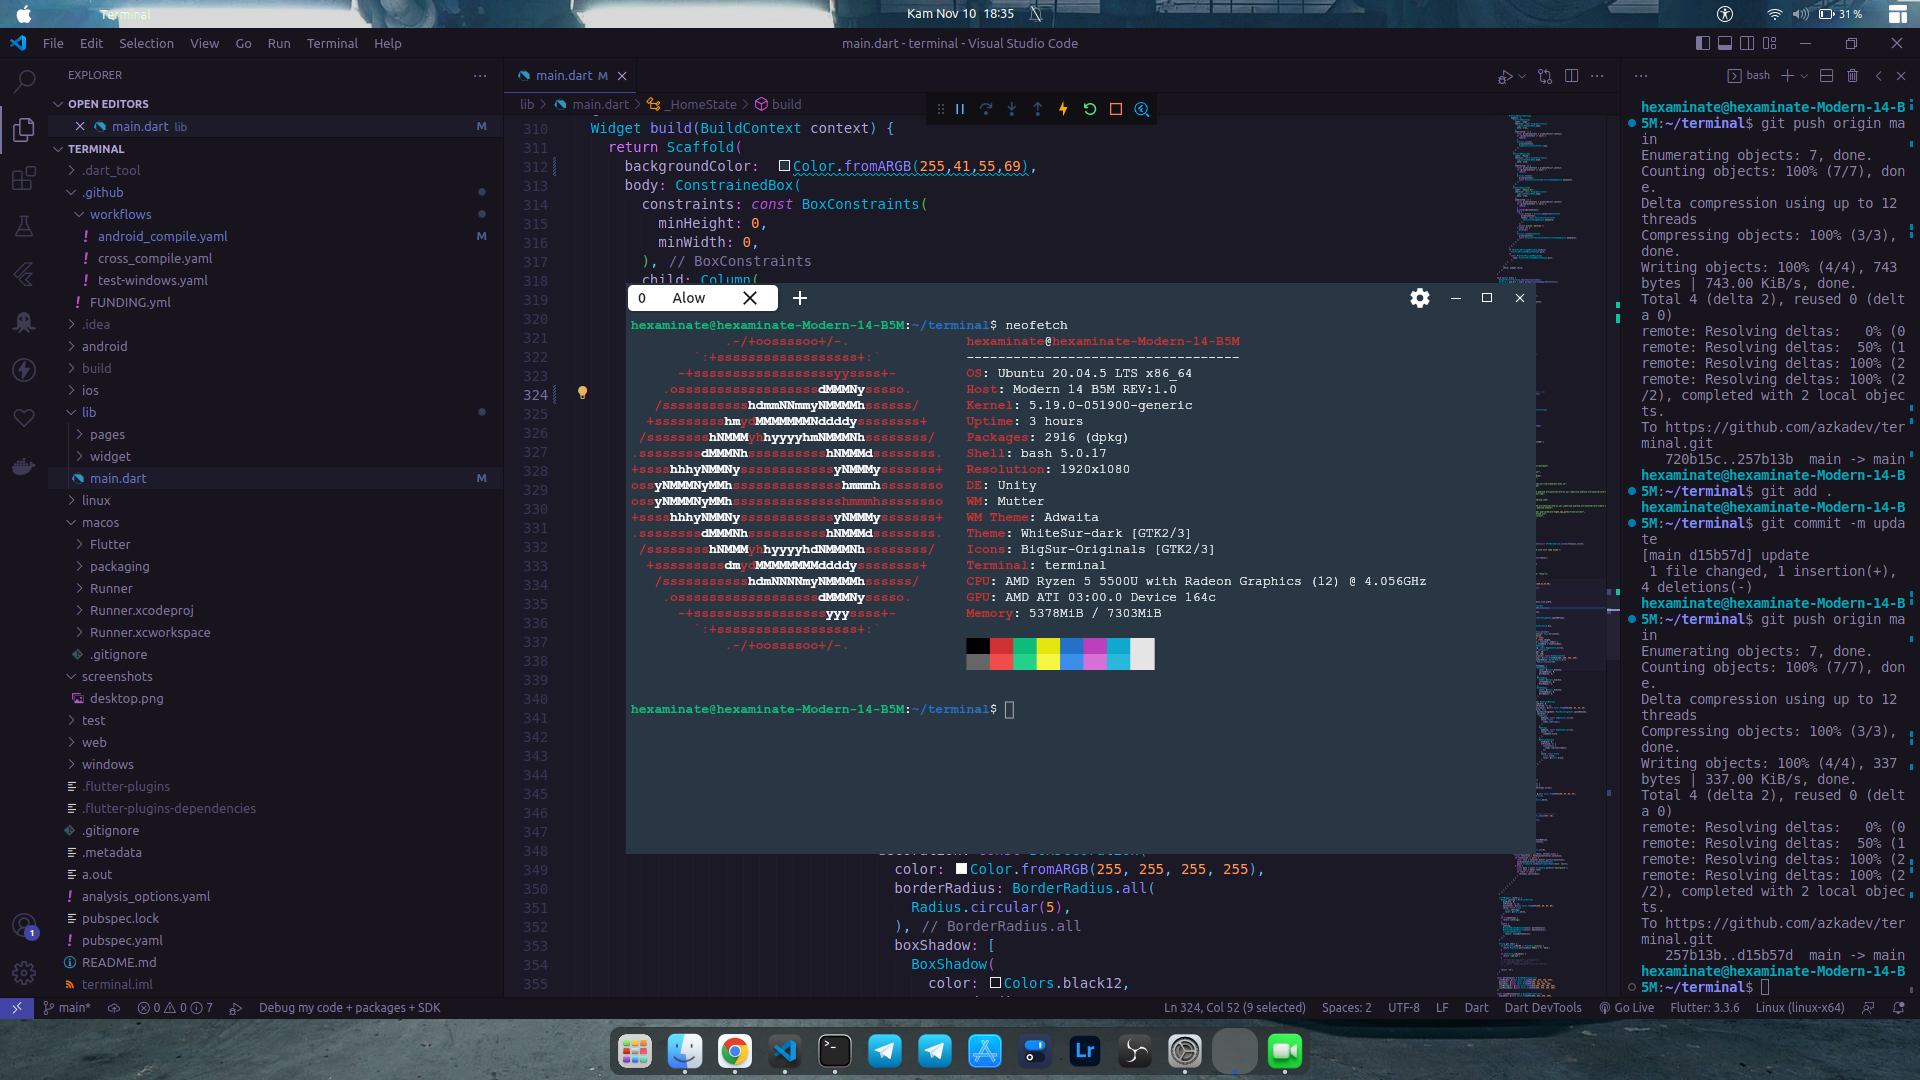
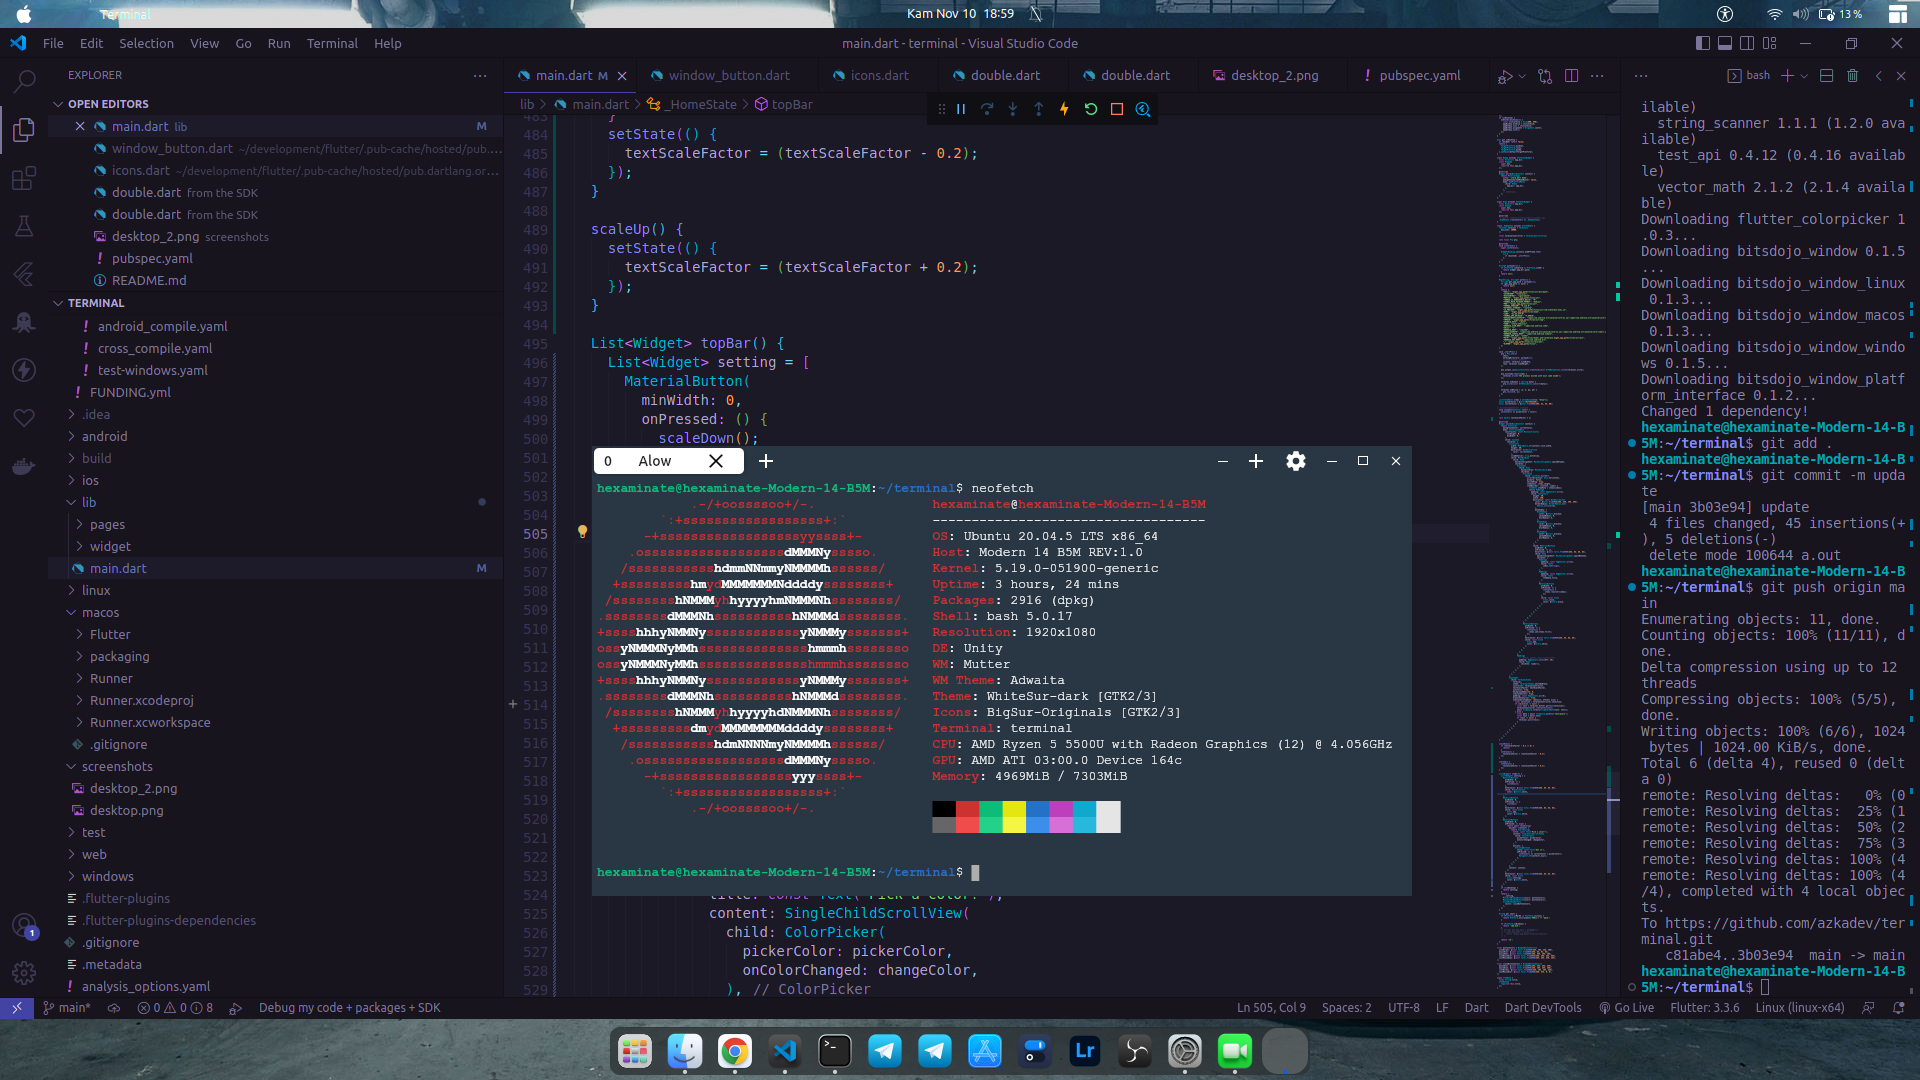
add scale down and up

diff --git a/lib/main.dart b/lib/main.dart
@@ -314,6 +314,8 @@ class _HomeState extends State<Home> {
     setState(() => pickerColor = color);
   }
 
+  late double textScaleFactor = 1;
+
   @override
   Widget build(BuildContext context) {
     return Scaffold(
@@ -447,6 +449,7 @@ class _HomeState extends State<Home> {
                 terminal,
                 theme: TerminalThemes.whiteOnBlack,
                 controller: terminalController,
+                textScaleFactor: textScaleFactor,
                 autofocus: true,
                 backgroundOpacity: 0,
                 simulateScroll: true,
@@ -474,45 +477,83 @@ class _HomeState extends State<Home> {
     );
   }
 
+  scaleDown() {
+    if (textScaleFactor - 0.2 <= 0) {
+      return;
+    }
+    setState(() {
+      textScaleFactor = (textScaleFactor - 0.2);
+    });
+  }
+
+  scaleUp() {
+    setState(() {
+      textScaleFactor = (textScaleFactor + 0.2);
+    });
+  }
+
   List<Widget> topBar() {
-    Widget setting = MaterialButton(
-      minWidth: 0,
-      onPressed: ()async {
-        return await showDialog(
-          builder: (context) {
-            return AlertDialog(
-              title: const Text('Pick a color!'),
-              content: SingleChildScrollView(
-                child: ColorPicker(
-                  pickerColor: pickerColor,
-                  onColorChanged: changeColor,
-                ),
-              ),
-              actions:[
-                ElevatedButton(
-                  child: const Text('Got it'),
-                  onPressed: () {
-                    setState(() => currentColor = pickerColor);
-                    Navigator.of(context).pop();
-                  },
-                ),
-              ],
-            );
-          },
-          context: context,
-        );
-      },
-      hoverColor: const Color.fromARGB(255, 63, 63, 63),
-      child: const Icon(
-        Icons.settings,
-        color: Colors.white,
+    List<Widget> setting = [
+      MaterialButton(
+        minWidth: 0,
+        onPressed: () {
+          scaleDown();
+        },
+        hoverColor: const Color.fromARGB(255, 63, 63, 63),
+        child: MinimizeIcon(
+          color: Colors.white,
+        ),
       ),
-    );
+      MaterialButton(
+        minWidth: 0,
+        onPressed: () {
+          scaleUp();
+        },
+        hoverColor: const Color.fromARGB(255, 63, 63, 63),
+        child: const Icon(
+          Icons.add,
+          color: Colors.white,
+        ),
+      ),
+      MaterialButton(
+        minWidth: 0,
+        onPressed: () async {
+          return await showDialog(
+            builder: (context) {
+              return AlertDialog(
+                title: const Text('Pick a color!'),
+                content: SingleChildScrollView(
+                  child: ColorPicker(
+                    pickerColor: pickerColor,
+                    onColorChanged: changeColor,
+                  ),
+                ),
+                actions: [
+                  ElevatedButton(
+                    child: const Text('Got it'),
+                    onPressed: () {
+                      setState(() => currentColor = pickerColor);
+                      Navigator.of(context).pop();
+                    },
+                  ),
+                ],
+              );
+            },
+            context: context,
+          );
+        },
+        hoverColor: const Color.fromARGB(255, 63, 63, 63),
+        child: const Icon(
+          Icons.settings,
+          color: Colors.white,
+        ),
+      ),
+    ];
     if (!isDesktop) {
-      return [setting];
+      return setting;
     }
     return [
-      setting,
+      ...setting,
       MinimizeWindowButton(colors: buttonColors),
       MaximizeWindowButton(colors: buttonColors),
       CloseWindowButton(
